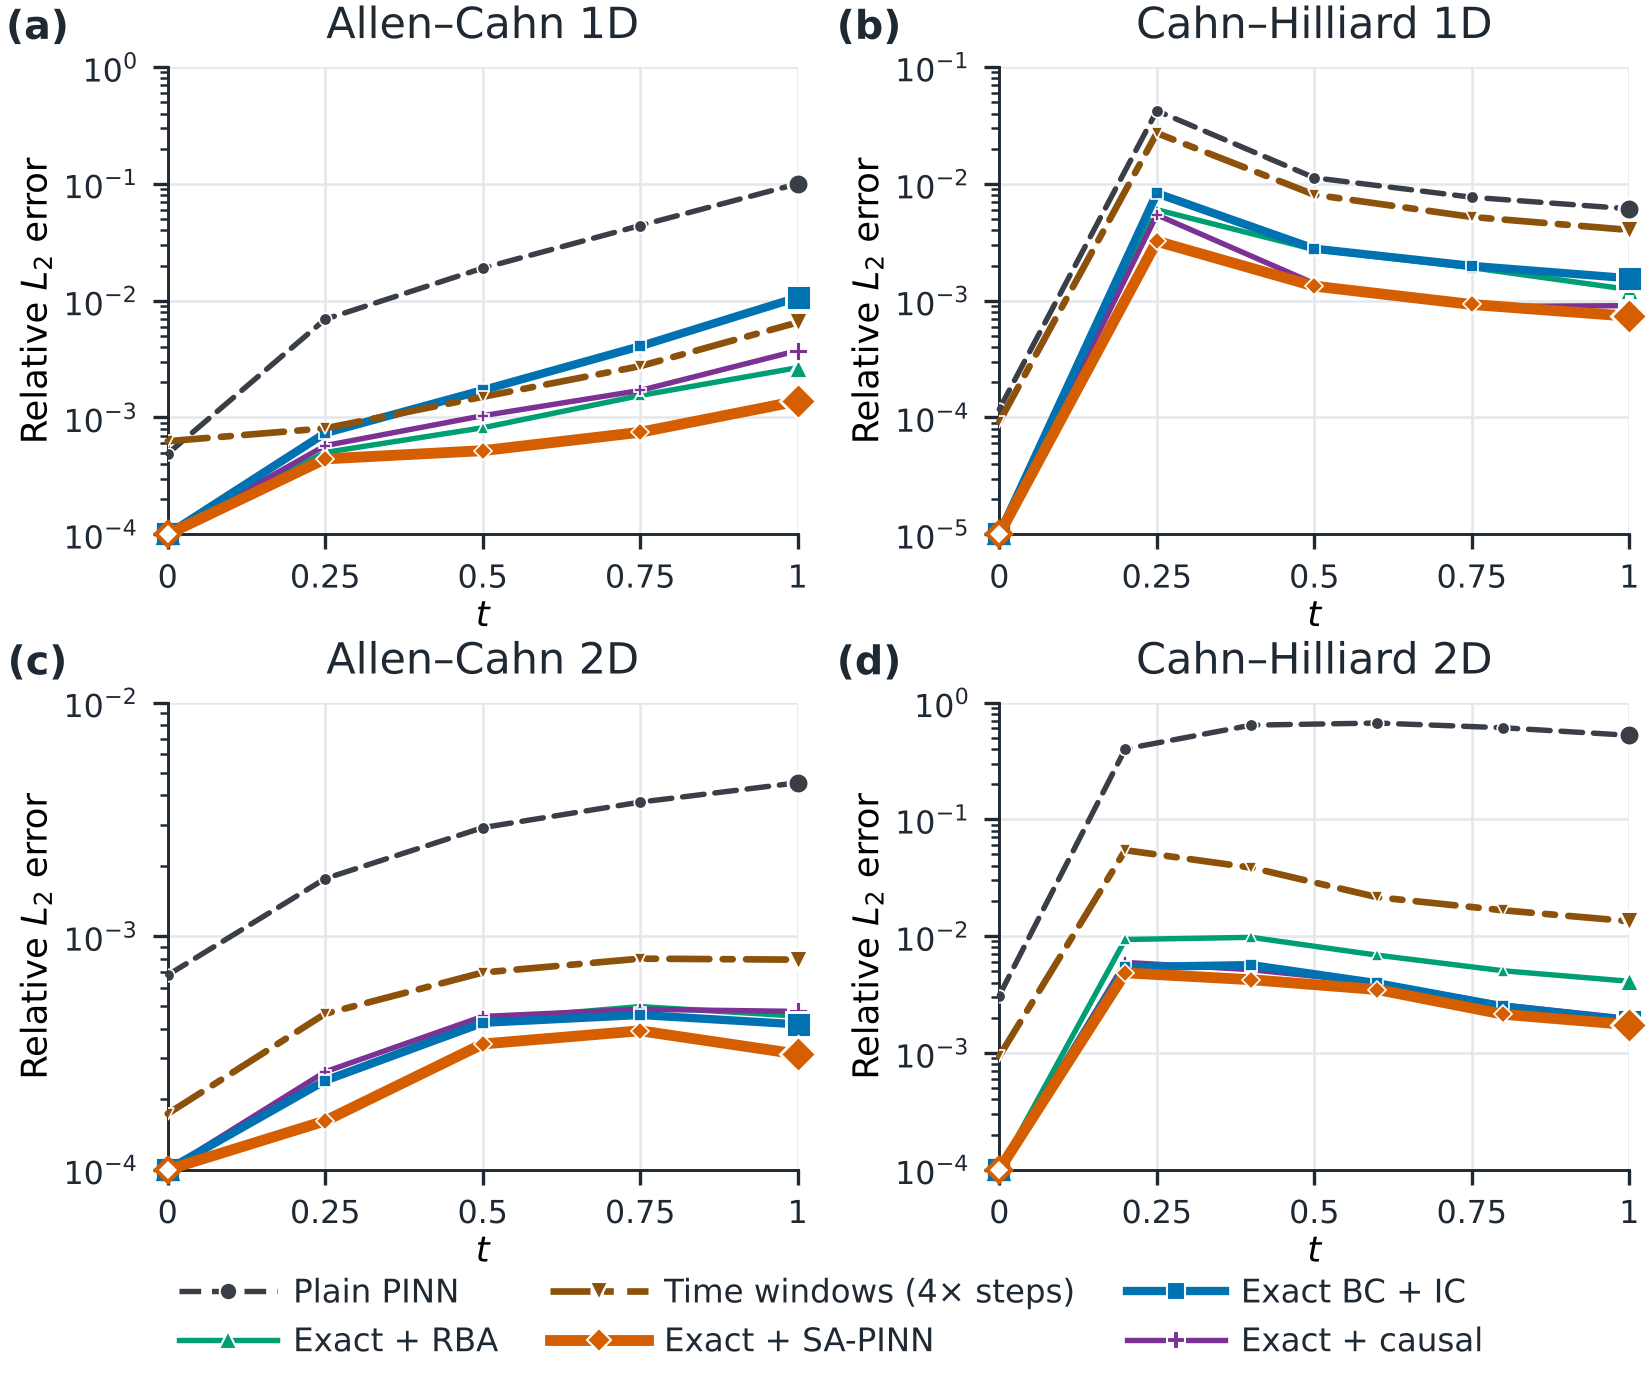
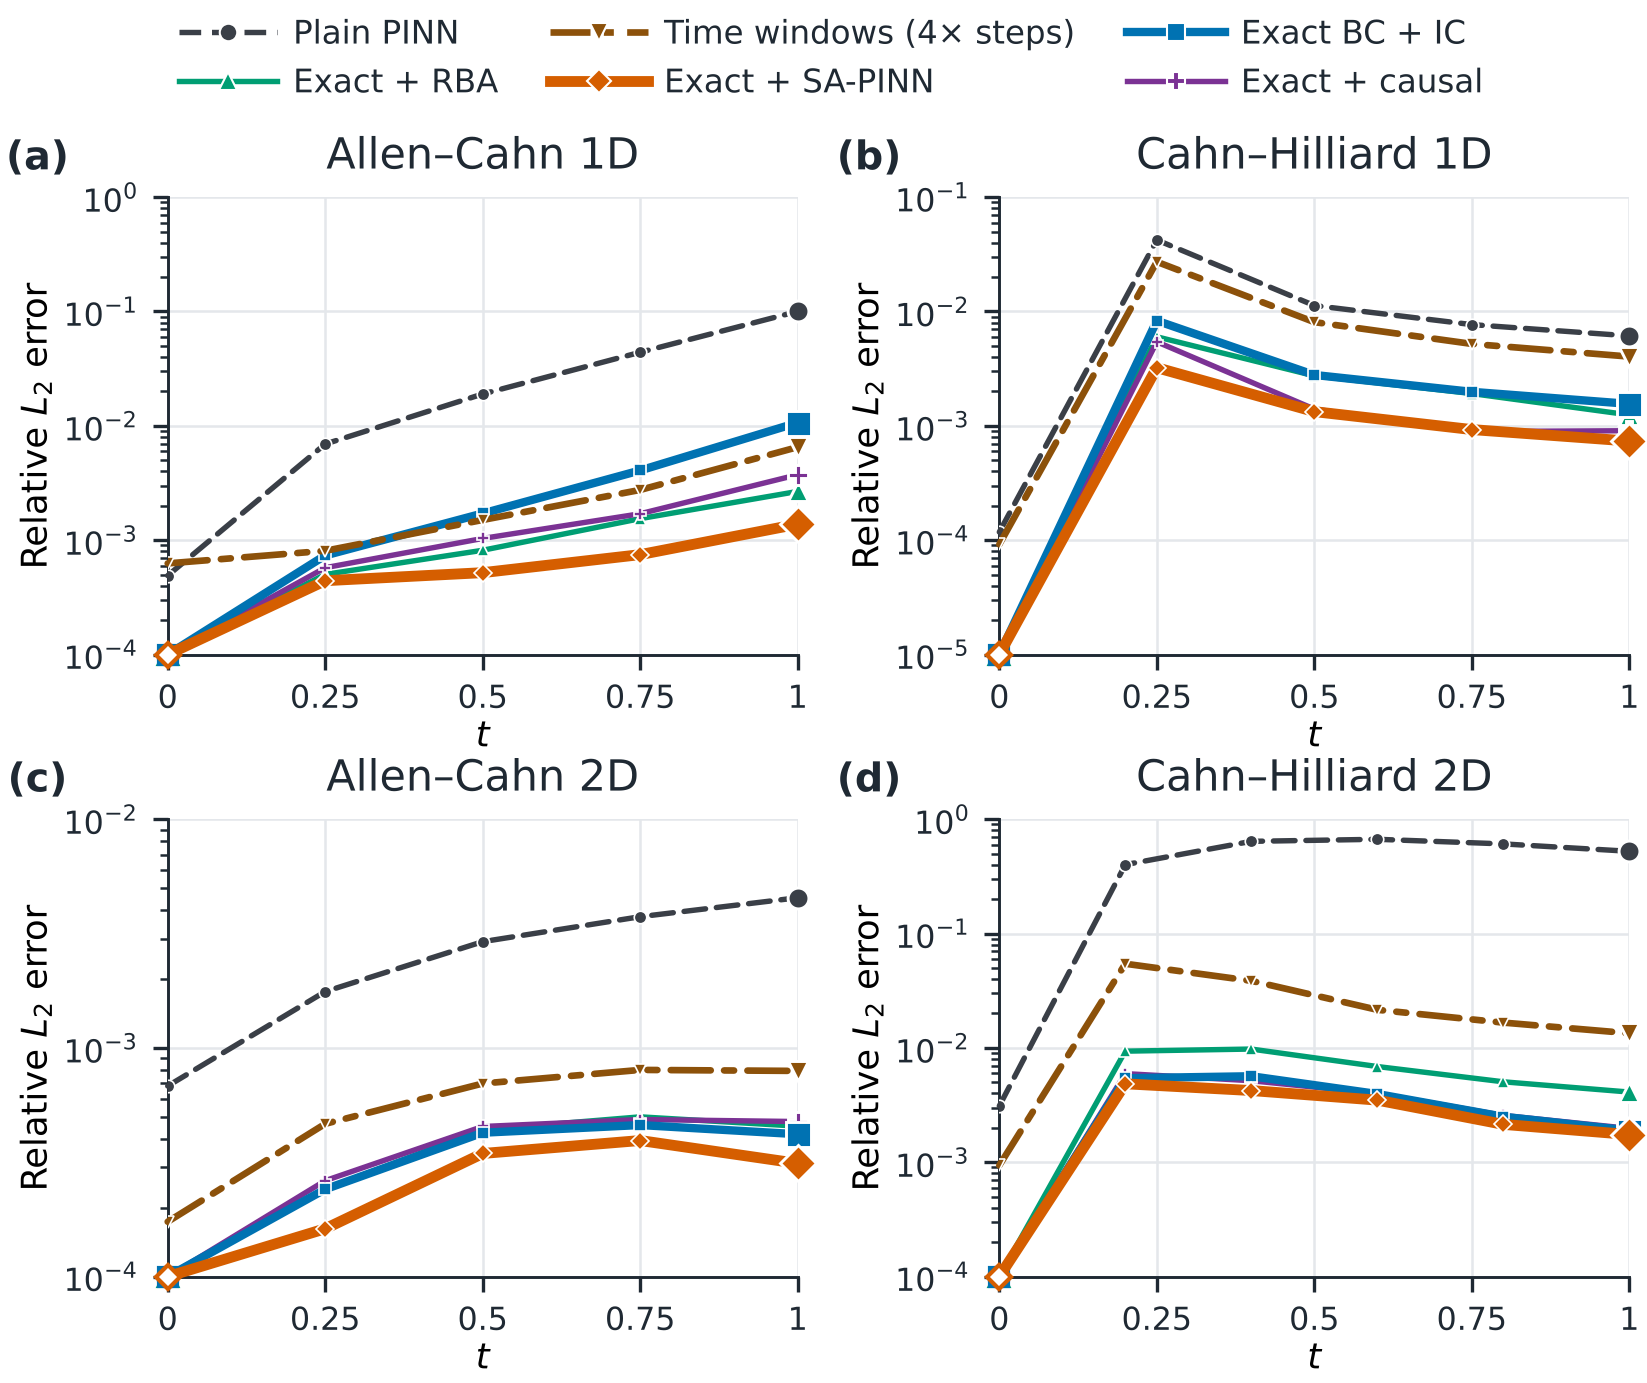
Figure 7: legend above the panels

diff --git a/tools/make_methods_figure.py b/tools/make_methods_figure.py
@@ -347,10 +347,10 @@ def fig7(ex, name="paper_figure7", label_ends=False):
     byl = {s[1]: s for s in FIG7_SETUPS}
     h = [Line2D([], [], color=byl[l][2], ls=byl[l][3], lw=byl[l][4], marker=byl[l][5], ms=4.2, mec="white", mew=0.5)
          for l in order]
-    fig.legend(h, order, loc="lower center", ncol=3, frameon=False, fontsize=7.8,
-               handlelength=3.0, handletextpad=0.5, columnspacing=1.6, bbox_to_anchor=(0.5, 0.0),
+    fig.legend(h, order, loc="upper center", ncol=3, frameon=False, fontsize=7.8,      # above the panels
+               handlelength=3.0, handletextpad=0.5, columnspacing=1.6, bbox_to_anchor=(0.5, 1.0),
                borderaxespad=0.1)
-    fig.subplots_adjust(left=0.105, right=0.925 if label_ends else 0.975, top=0.955, bottom=0.15,
+    fig.subplots_adjust(left=0.105, right=0.925 if label_ends else 0.975, top=0.858, bottom=0.07,
                         wspace=0.5 if label_ends else 0.32, hspace=0.36)
     fig.canvas.draw()
     for ax in axs.ravel():            # (a)-(d) centred over the y-axis title, the problem centred over the plot
